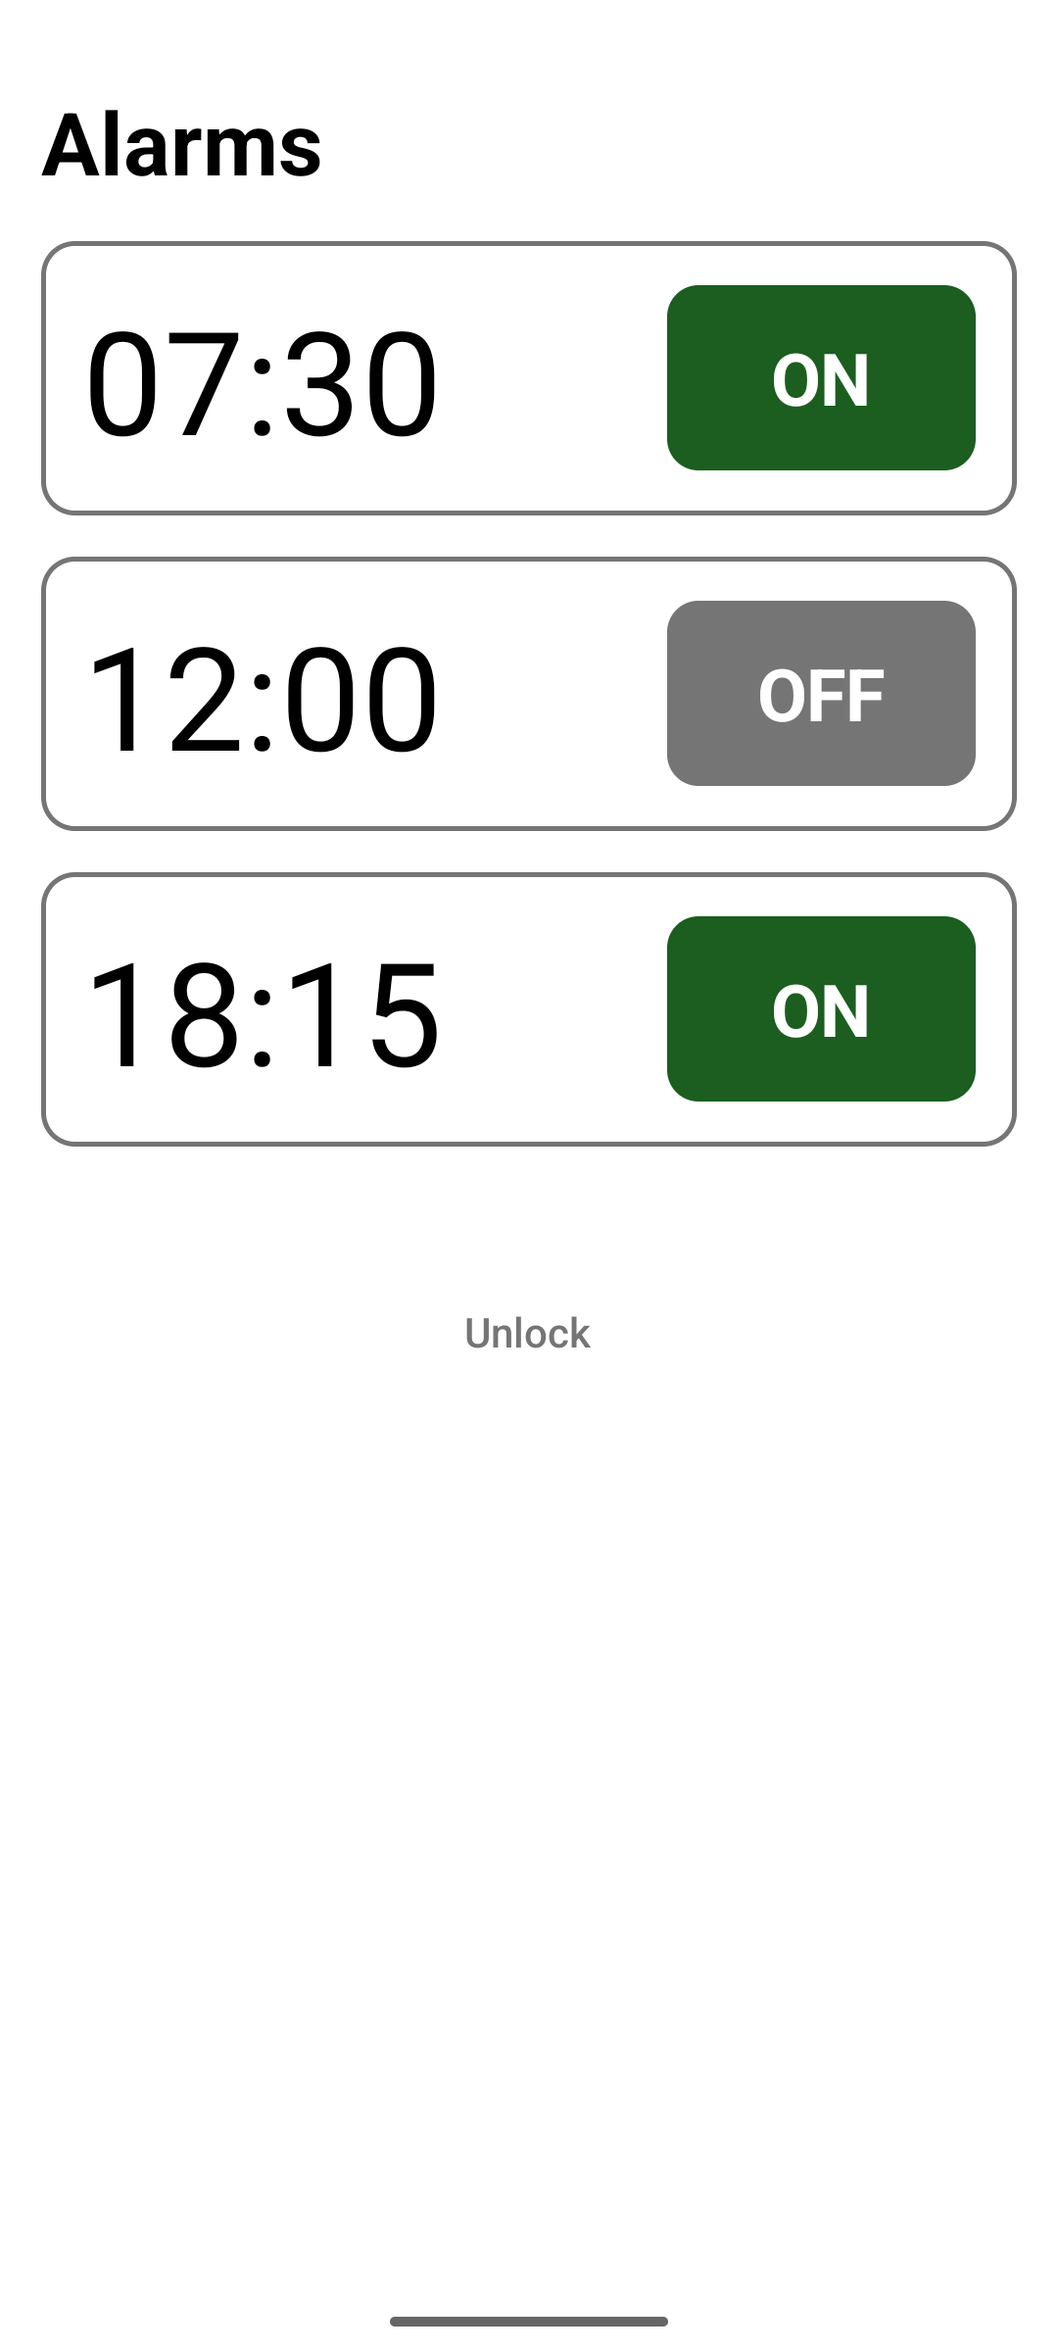
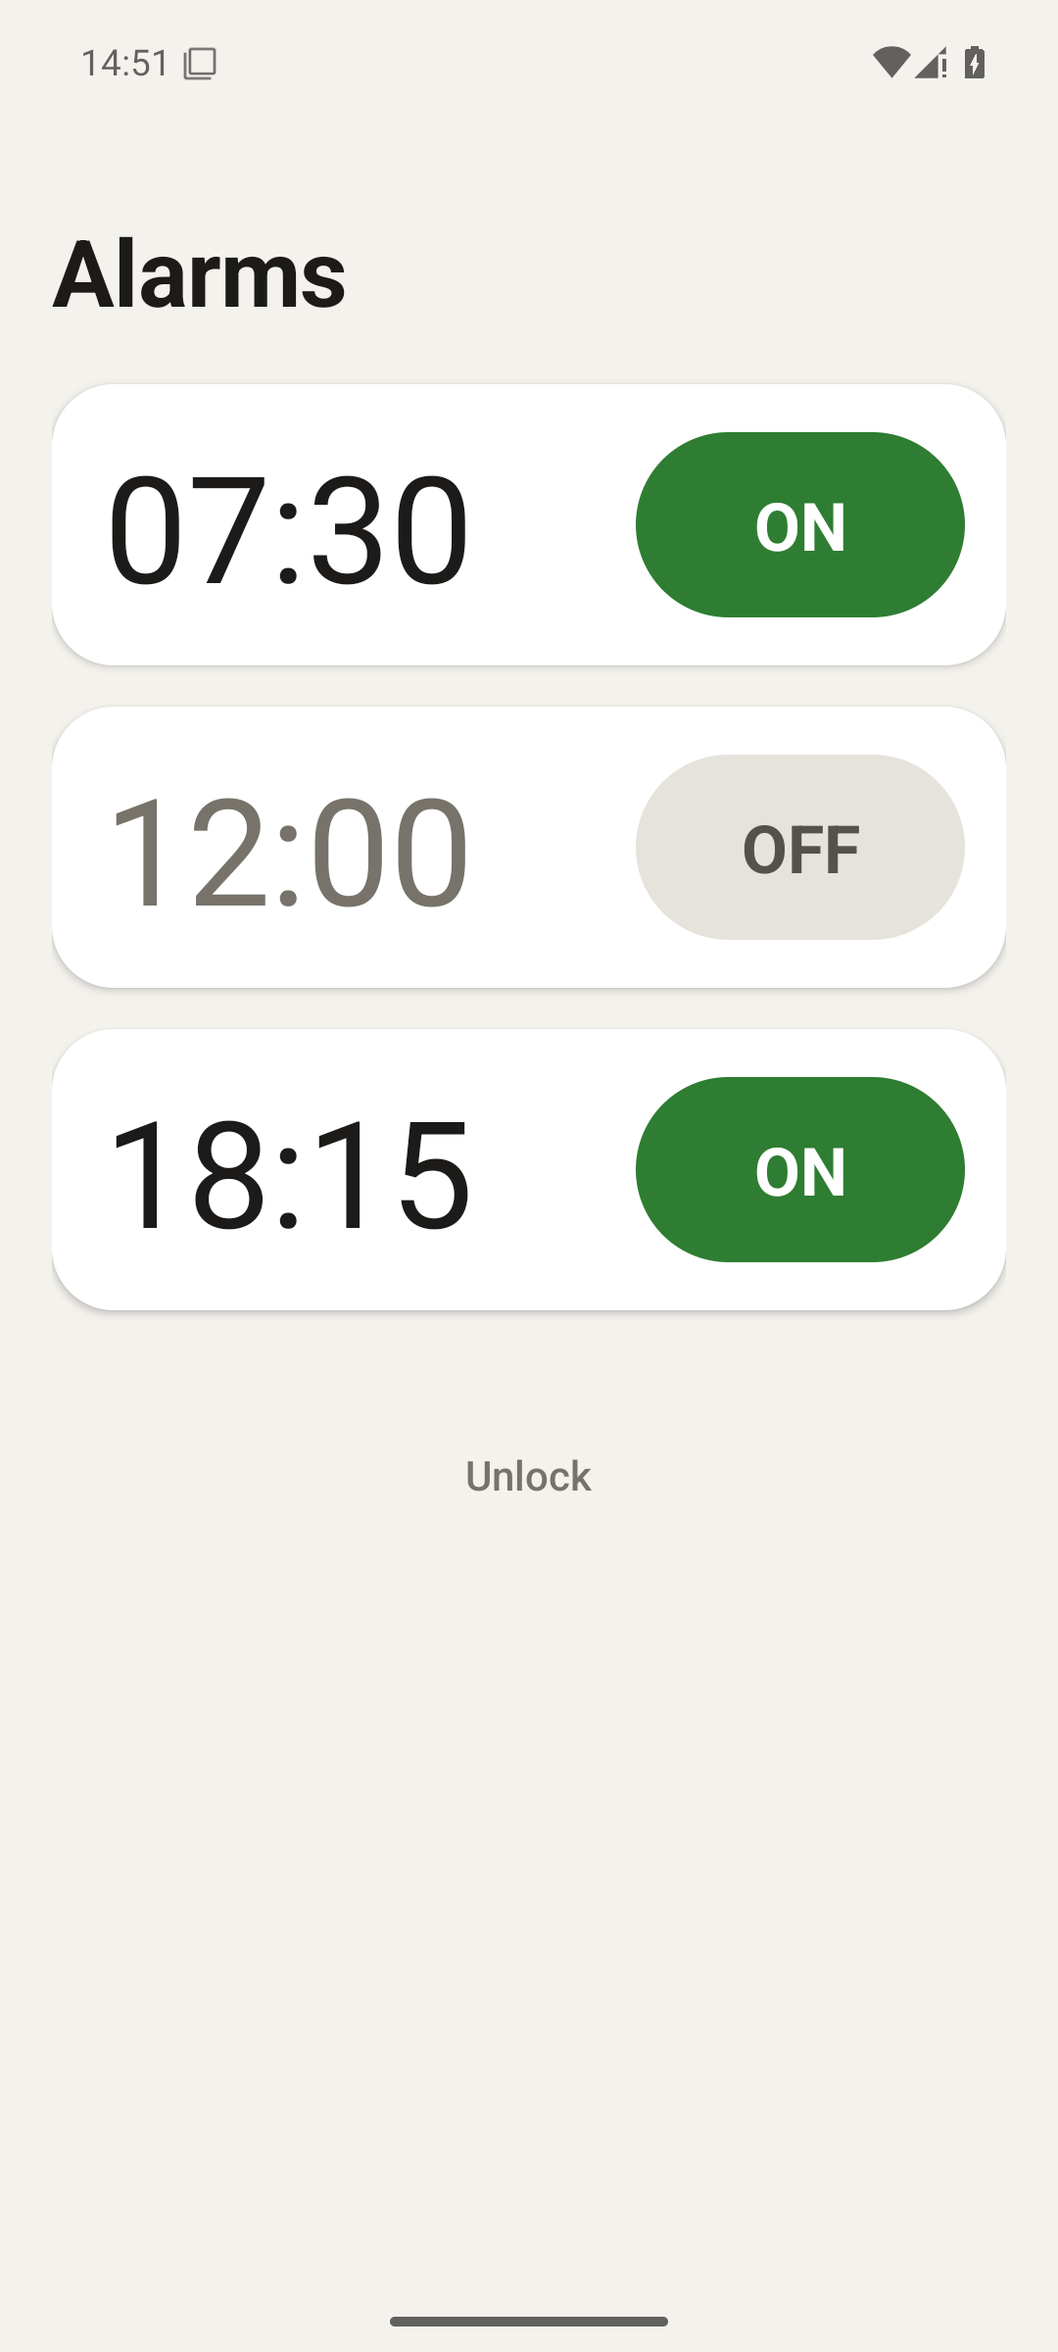
Restyle both screens: calmer cards, clearer ON/OFF, a proper ring button
The first version worked but looked rough: black and red slabs for the
secondary actions competed with the red Turn off, the status bar icons were
white on white, and on Android 15 the last button sat under the gesture bar.

Main screen: warm off-white page, white rounded cards with a soft shadow.
ON is a solid green pill, OFF a light grey one, and an OFF alarm's time fades
to grey so the alarms that will ring stand out. Change time and Delete are
outlined and side by side. Every button uses the platform ripple so a tap
visibly registers. Dark system-bar icons via the theme, and
fitsSystemWindows keeps content clear of the bars.

Ring screen: all red, with one huge white button holding a sharp vector
alarm icon and the label centred together, and the clock below. Same size of
target as before, same stop paths. Verified on the API 35 emulator locked and
in use, in English and German, with the smoke test passing.

diff --git a/app/src/main/java/app/phueber/senioralert/MainActivity.java b/app/src/main/java/app/phueber/senioralert/MainActivity.java
@@ -9,9 +9,11 @@ import android.app.TimePickerDialog;
 import android.content.Intent;
 import android.content.SharedPreferences;
 import android.content.pm.PackageManager;
+import android.content.res.ColorStateList;
 import android.graphics.Color;
 import android.graphics.Typeface;
 import android.graphics.drawable.GradientDrawable;
+import android.graphics.drawable.RippleDrawable;
 import android.net.Uri;
 import android.os.Build;
 import android.os.Bundle;
@@ -73,12 +75,15 @@ public class MainActivity extends Activity {
         super.onCreate(savedInstanceState);
         store = new Store(this);
         ScrollView scroll = new ScrollView(this);
-        scroll.setBackgroundColor(Color.WHITE);
         scroll.setFillViewport(true);
+        // Keeps content clear of the status bar and the gesture bar; Android 15 draws
+        // every app edge to edge, so without this the last button sits under the bar.
+        scroll.setFitsSystemWindows(true);
+        scroll.setClipToPadding(false);
         root = new LinearLayout(this);
         root.setOrientation(LinearLayout.VERTICAL);
-        int p = dp(16);
-        root.setPadding(p, p, p, p);
+        int p = dp(20);
+        root.setPadding(p, dp(12), p, dp(28));
         scroll.addView(root);
         setContentView(scroll);
     }
@@ -121,21 +126,30 @@ public class MainActivity extends Activity {
 
         shownRinging = RingService.isRinging();
         if (shownRinging) {
-            Button stop = button(getString(R.string.ringing_banner) + "\n"
-                    + getString(R.string.turn_off), R.color.stop_red, 36, 140);
+            Button stop = filled(getString(R.string.ringing_banner) + "\n"
+                    + getString(R.string.turn_off), R.color.stop_red, 34, 140);
             stop.setOnClickListener(v -> { RingService.stop(this); rebuild(); });
             root.addView(stop, spaced());
         }
 
         addWarnings(locked);
 
-        TextView title = text(getString(R.string.title_alarms), 34);
+        TextView title = text(getString(R.string.title_alarms), 36);
         title.setTypeface(Typeface.DEFAULT_BOLD);
-        root.addView(title, spaced());
+        LinearLayout.LayoutParams tlp = spaced();
+        tlp.topMargin = dp(20);
+        tlp.bottomMargin = dp(4);
+        root.addView(title, tlp);
 
         List<Alarm> alarms = store.alarms();
         shownAlarms = AlarmCodec.encode(alarms);
-        if (alarms.isEmpty()) root.addView(text(getString(R.string.no_alarms), 24), spaced());
+        if (alarms.isEmpty()) {
+            TextView empty = text(getString(R.string.no_alarms), 24);
+            empty.setTextColor(getColor(R.color.text_muted));
+            empty.setGravity(Gravity.CENTER);
+            empty.setPadding(0, dp(40), 0, dp(40));
+            root.addView(empty, spaced());
+        }
         for (Alarm a : alarms) addRow(a, locked);
 
         if (locked) {
@@ -143,42 +157,52 @@ public class MainActivity extends Activity {
             Button unlock = new Button(this);
             unlock.setText(R.string.unlock);
             unlock.setAllCaps(false);
-            unlock.setBackgroundColor(Color.TRANSPARENT);
-            unlock.setTextColor(getColor(R.color.off_grey));
+            unlock.setBackground(ripple(R.color.press_dark, Color.TRANSPARENT, 0, 0));
+            unlock.setStateListAnimator(null);
+            unlock.setTextColor(getColor(R.color.text_muted));
             unlock.setTextSize(TypedValue.COMPLEX_UNIT_SP, 16);
+            int ph = dp(24);
+            unlock.setPadding(ph, 0, ph, 0);
             LinearLayout.LayoutParams lp = new LinearLayout.LayoutParams(
                     LinearLayout.LayoutParams.WRAP_CONTENT, LinearLayout.LayoutParams.WRAP_CONTENT);
-            lp.topMargin = dp(48);
+            lp.topMargin = dp(40);
             lp.gravity = Gravity.CENTER_HORIZONTAL;
             unlock.setOnClickListener(v -> showUnlock());
             root.addView(unlock, lp);
         } else {
-            Button add = button(getString(R.string.add_alarm), R.color.on_green, 28, 80);
+            Button add = filled(getString(R.string.add_alarm), R.color.on_green, 26, 80);
             add.setOnClickListener(v -> pickTime(12, 0, (h, m) -> Scheduler.schedule(this, store.add(h, m))));
-            root.addView(add, spaced());
-            Button lock = button(getString(R.string.lock), R.color.text_black, 24, 64);
+            LinearLayout.LayoutParams alp = spaced();
+            alp.topMargin = dp(24);
+            root.addView(add, alp);
+            Button lock = outlined(getString(R.string.lock), R.color.text_black, 22, 64);
             lock.setOnClickListener(v -> showLock());
             root.addView(lock, spaced());
         }
     }
 
     private void addRow(Alarm a, boolean locked) {
-        LinearLayout row = new LinearLayout(this);
-        row.setOrientation(LinearLayout.VERTICAL);
-        int p = dp(16);
-        row.setPadding(p, p, p, p);
-        GradientDrawable border = new GradientDrawable();
-        border.setStroke(dp(2), getColor(R.color.off_grey));
-        border.setCornerRadius(dp(12));
-        row.setBackground(border);
+        LinearLayout card = new LinearLayout(this);
+        card.setOrientation(LinearLayout.VERTICAL);
+        int p = dp(20);
+        card.setPadding(p, dp(16), dp(16), dp(16));
+        GradientDrawable bg = new GradientDrawable();
+        bg.setColor(getColor(R.color.card));
+        bg.setCornerRadius(dp(24));
+        card.setBackground(bg);
+        card.setElevation(dp(2)); // a soft shadow lifts the card off the page
 
         LinearLayout top = new LinearLayout(this);
         top.setGravity(Gravity.CENTER_VERTICAL);
-        TextView time = text(format(a), 56);
+        TextView time = text(format(a), 58);
+        // OFF alarms fade back, so the ones that will ring stand out at a glance.
+        time.setTextColor(getColor(a.enabled ? R.color.text_black : R.color.text_muted));
         top.addView(time, new LinearLayout.LayoutParams(0, LinearLayout.LayoutParams.WRAP_CONTENT, 1));
-        Button toggle = button(getString(a.enabled ? R.string.state_on : R.string.state_off),
-                a.enabled ? R.color.on_green : R.color.off_grey, 28, 72);
-        toggle.setMinWidth(dp(120));
+        Button toggle = a.enabled
+                ? filled(getString(R.string.state_on), R.color.on_green, 26, 72)
+                : tinted(getString(R.string.state_off), R.color.off_bg, R.color.off_text, 26, 72);
+        toggle.setMinWidth(dp(128));
+        toggle.setMinimumWidth(dp(128));
         toggle.setOnClickListener(v -> {
             Alarm changed = a.withEnabled(!a.enabled);
             store.update(changed);
@@ -186,21 +210,33 @@ public class MainActivity extends Activity {
             rebuild();
         });
         top.addView(toggle);
-        row.addView(top);
+        card.addView(top);
 
         if (!locked) {
-            Button change = button(getString(R.string.change_time), R.color.text_black, 22, 64);
+            // Secondary actions: outlined and side by side, so they don't compete with
+            // ON/OFF or look like the red Turn off.
+            LinearLayout actions = new LinearLayout(this);
+            Button change = outlined(getString(R.string.change_time), R.color.text_black, 19, 56);
             change.setOnClickListener(v -> pickTime(a.hour, a.minute, (h, m) -> {
                 Alarm changed = a.withTime(h, m).withEnabled(true); // picking a time means "ring then"
                 store.update(changed);
                 Scheduler.apply(this, changed);
             }));
-            row.addView(change, spaced());
-            Button delete = button(getString(R.string.delete), R.color.stop_red, 22, 64);
+            Button delete = outlined(getString(R.string.delete), R.color.stop_red, 19, 56);
             delete.setOnClickListener(v -> confirmDelete(a));
-            row.addView(delete, spaced());
+            LinearLayout.LayoutParams left = new LinearLayout.LayoutParams(0,
+                    LinearLayout.LayoutParams.WRAP_CONTENT, 1);
+            left.rightMargin = dp(6);
+            LinearLayout.LayoutParams right = new LinearLayout.LayoutParams(0,
+                    LinearLayout.LayoutParams.WRAP_CONTENT, 1);
+            right.leftMargin = dp(6);
+            actions.addView(change, left);
+            actions.addView(delete, right);
+            LinearLayout.LayoutParams alp = spaced();
+            alp.topMargin = dp(12);
+            card.addView(actions, alp);
         }
-        root.addView(row, spaced());
+        root.addView(card, spaced());
     }
 
     // ---------------------------------------------------------------- warnings
@@ -238,14 +274,12 @@ public class MainActivity extends Activity {
     }
 
     private void warning(int textRes, View.OnClickListener onClick) {
-        TextView w = text(getString(textRes), 20);
-        int p = dp(16);
+        TextView w = text("⚠  " + getString(textRes), 19);
+        int p = dp(18);
         w.setPadding(p, p, p, p);
         w.setMinHeight(dp(64));
-        GradientDrawable bg = new GradientDrawable();
-        bg.setColor(getColor(R.color.warn_yellow));
-        bg.setCornerRadius(dp(12));
-        w.setBackground(bg);
+        w.setBackground(ripple(R.color.press_dark, getColor(R.color.warn_yellow),
+                getColor(R.color.warn_border), 20));
         w.setOnClickListener(onClick);
         root.addView(w, spaced());
     }
@@ -432,21 +466,49 @@ public class MainActivity extends Activity {
         return t;
     }
 
-    private Button button(String label, int colorRes, int sp, int minHeightDp) {
+    /** Solid button with white text: the main actions (ON, Add alarm, Turn off). */
+    private Button filled(String label, int bgRes, int sp, int minHeightDp) {
+        return pill(label, getColor(bgRes), Color.WHITE, 0, R.color.press_light, sp, minHeightDp);
+    }
+
+    /** Soft-coloured button with dark text: the resting state (OFF). */
+    private Button tinted(String label, int bgRes, int fgRes, int sp, int minHeightDp) {
+        return pill(label, getColor(bgRes), getColor(fgRes), 0, R.color.press_dark, sp, minHeightDp);
+    }
+
+    /** White button with a coloured outline: secondary actions (Change time, Delete, Lock). */
+    private Button outlined(String label, int fgRes, int sp, int minHeightDp) {
+        int fg = getColor(fgRes);
+        return pill(label, getColor(R.color.card), fg, fg, R.color.press_dark, sp, minHeightDp);
+    }
+
+    private Button pill(String label, int bg, int fg, int stroke, int pressRes, int sp, int minHeightDp) {
         Button b = new Button(this);
         b.setText(label);
         b.setAllCaps(false);
-        b.setTextColor(Color.WHITE);
+        b.setTextColor(fg);
         b.setTypeface(Typeface.DEFAULT_BOLD);
         b.setTextSize(TypedValue.COMPLEX_UNIT_SP, sp);
         b.setMinHeight(dp(minHeightDp));
         b.setMinimumHeight(dp(minHeightDp));
-        b.setStateListAnimator(null); // no elevation shadow: flat and plain
-        GradientDrawable bg = new GradientDrawable();
-        bg.setColor(getColor(colorRes));
-        bg.setCornerRadius(dp(12));
-        b.setBackground(bg);
+        b.setStateListAnimator(null); // flat; the ripple alone shows the press
+        b.setBackground(ripple(pressRes, bg, stroke, minHeightDp / 2));
         return b;
+    }
+
+    /**
+     * Rounded background with the platform's ripple on press, so every tap gives a
+     * visible "yes, that worked". stroke 0 = no outline.
+     */
+    private RippleDrawable ripple(int pressRes, int fill, int stroke, int radiusDp) {
+        GradientDrawable shape = new GradientDrawable();
+        shape.setColor(fill);
+        shape.setCornerRadius(dp(radiusDp));
+        if (stroke != 0) shape.setStroke(dp(2), stroke);
+        GradientDrawable mask = new GradientDrawable();
+        mask.setColor(Color.WHITE);
+        mask.setCornerRadius(dp(radiusDp));
+        return new RippleDrawable(ColorStateList.valueOf(getColor(pressRes)), shape, mask);
     }
 
     /** Full width with a gap above, so big targets never touch each other. */

diff --git a/app/src/main/java/app/phueber/senioralert/RingActivity.java b/app/src/main/java/app/phueber/senioralert/RingActivity.java
@@ -1,8 +1,12 @@
 package app.phueber.senioralert;
 
 import android.app.Activity;
+import android.content.res.ColorStateList;
 import android.graphics.Color;
 import android.graphics.Typeface;
+import android.widget.FrameLayout;
+import android.graphics.drawable.GradientDrawable;
+import android.graphics.drawable.RippleDrawable;
 import android.os.Build;
 import android.os.Bundle;
 import android.os.Handler;
@@ -12,7 +16,7 @@ import android.util.TypedValue;
 import android.view.Gravity;
 import android.view.KeyEvent;
 import android.view.WindowManager;
-import android.widget.Button;
+import android.widget.ImageView;
 import android.widget.LinearLayout;
 import android.widget.TextView;
 
@@ -58,11 +62,17 @@ public final class RingActivity extends Activity {
         }
         getWindow().addFlags(WindowManager.LayoutParams.FLAG_KEEP_SCREEN_ON);
 
+        // All red (RingTheme), one huge white button with red text: unmistakably the
+        // thing to press, and high contrast either way.
+        // The outer frame takes the system-bar insets (fitsSystemWindows replaces its
+        // padding), the inner column keeps our own margins.
+        FrameLayout frame = new FrameLayout(this);
+        frame.setFitsSystemWindows(true); // clear of status and gesture bars
         LinearLayout root = new LinearLayout(this);
         root.setOrientation(LinearLayout.VERTICAL);
-        root.setBackgroundColor(Color.BLACK);
-        int pad = dp(16);
-        root.setPadding(pad, pad, pad, pad);
+        int pad = dp(20);
+        root.setPadding(pad, pad, pad, dp(8));
+        frame.addView(root);
 
         clock = new TextView(this);
         clock.setTextColor(Color.WHITE);
@@ -70,17 +80,44 @@ public final class RingActivity extends Activity {
         clock.setTypeface(Typeface.DEFAULT_BOLD);
         clock.setGravity(Gravity.CENTER);
 
-        Button off = new Button(this);
-        off.setText(R.string.turn_off);
-        off.setAllCaps(false);
-        off.setTextColor(Color.WHITE);
-        off.setTextSize(TypedValue.COMPLEX_UNIT_SP, 40);
-        off.setTypeface(Typeface.DEFAULT_BOLD);
-        off.setBackgroundColor(getColor(R.color.stop_red));
+        // The button: a white rounded panel, clickable as a whole, with the alarm icon
+        // and the label grouped in its centre (a Button would pin the icon to its top).
+        int red = getColor(R.color.stop_red);
+        FrameLayout off = new FrameLayout(this);
+        GradientDrawable shape = new GradientDrawable();
+        shape.setColor(Color.WHITE);
+        shape.setCornerRadius(dp(36));
+        GradientDrawable mask = new GradientDrawable();
+        mask.setColor(Color.WHITE);
+        mask.setCornerRadius(dp(36));
+        off.setBackground(new RippleDrawable(ColorStateList.valueOf(0x33C62828), shape, mask));
+        off.setClickable(true);
+        off.setFocusable(true);
+        off.setContentDescription(getString(R.string.turn_off));
         off.setOnClickListener(v -> turnOff());
+
+        LinearLayout content = new LinearLayout(this);
+        content.setOrientation(LinearLayout.VERTICAL);
+        content.setGravity(Gravity.CENTER_HORIZONTAL);
+        ImageView bell = new ImageView(this);
+        bell.setImageResource(R.drawable.ic_alarm);
+        bell.setImageTintList(ColorStateList.valueOf(red));
+        content.addView(bell, new LinearLayout.LayoutParams(dp(112), dp(112)));
+        TextView label = new TextView(this);
+        label.setText(R.string.turn_off);
+        label.setTextColor(red);
+        label.setTextSize(TypedValue.COMPLEX_UNIT_SP, 48);
+        label.setTypeface(Typeface.DEFAULT_BOLD);
+        label.setGravity(Gravity.CENTER);
+        LinearLayout.LayoutParams llp = new LinearLayout.LayoutParams(
+                LinearLayout.LayoutParams.WRAP_CONTENT, LinearLayout.LayoutParams.WRAP_CONTENT);
+        llp.topMargin = dp(12);
+        content.addView(label, llp);
+        off.addView(content, new FrameLayout.LayoutParams(
+                FrameLayout.LayoutParams.WRAP_CONTENT, FrameLayout.LayoutParams.WRAP_CONTENT, Gravity.CENTER));
         LinearLayout.LayoutParams lp = new LinearLayout.LayoutParams(
                 LinearLayout.LayoutParams.MATCH_PARENT, 0, 1f); // fills the rest of the screen
-        lp.bottomMargin = pad;
+        lp.bottomMargin = dp(12);
         root.addView(off, lp);
 
         // The clock goes at the bottom: when the phone is in use, Android shows the
@@ -89,7 +126,7 @@ public final class RingActivity extends Activity {
         root.addView(clock, new LinearLayout.LayoutParams(
                 LinearLayout.LayoutParams.MATCH_PARENT, LinearLayout.LayoutParams.WRAP_CONTENT));
 
-        setContentView(root);
+        setContentView(frame);
     }
 
     @Override

diff --git a/ARCHITECTURE.md b/ARCHITECTURE.md
@@ -45,6 +45,19 @@ channel or full-screen intents are turned off, the sound still plays but only
 the banner (after unlocking the phone) and the time limit remain. That is why
 those settings are warned about even when the app is locked.
 
+## Look
+
+Plain platform views built in code, with no layout XML and no UI library. Colours live in
+`res/values/styles.xml`. `AppTheme` is a warm off-white page with dark system-bar
+icons (`values-v27` adds dark navigation-bar icons). `RingTheme` is all red.
+Both screens use `fitsSystemWindows`, because Android 15 draws apps edge to edge.
+Buttons are rounded `GradientDrawable`s inside the platform `RippleDrawable`,
+so every tap shows feedback. Filled means a main action, tinted means OFF, and
+outlined means a secondary action. The ring screen's button is a clickable
+`FrameLayout` that centres the Material alarm icon (`ic_alarm.xml`, a vector)
+with the label. The clock sits below the button, because the system's heads-up
+notification covers the top of the screen.
+
 ## Storage
 
 One SharedPreferences file `senioralert` opened through
